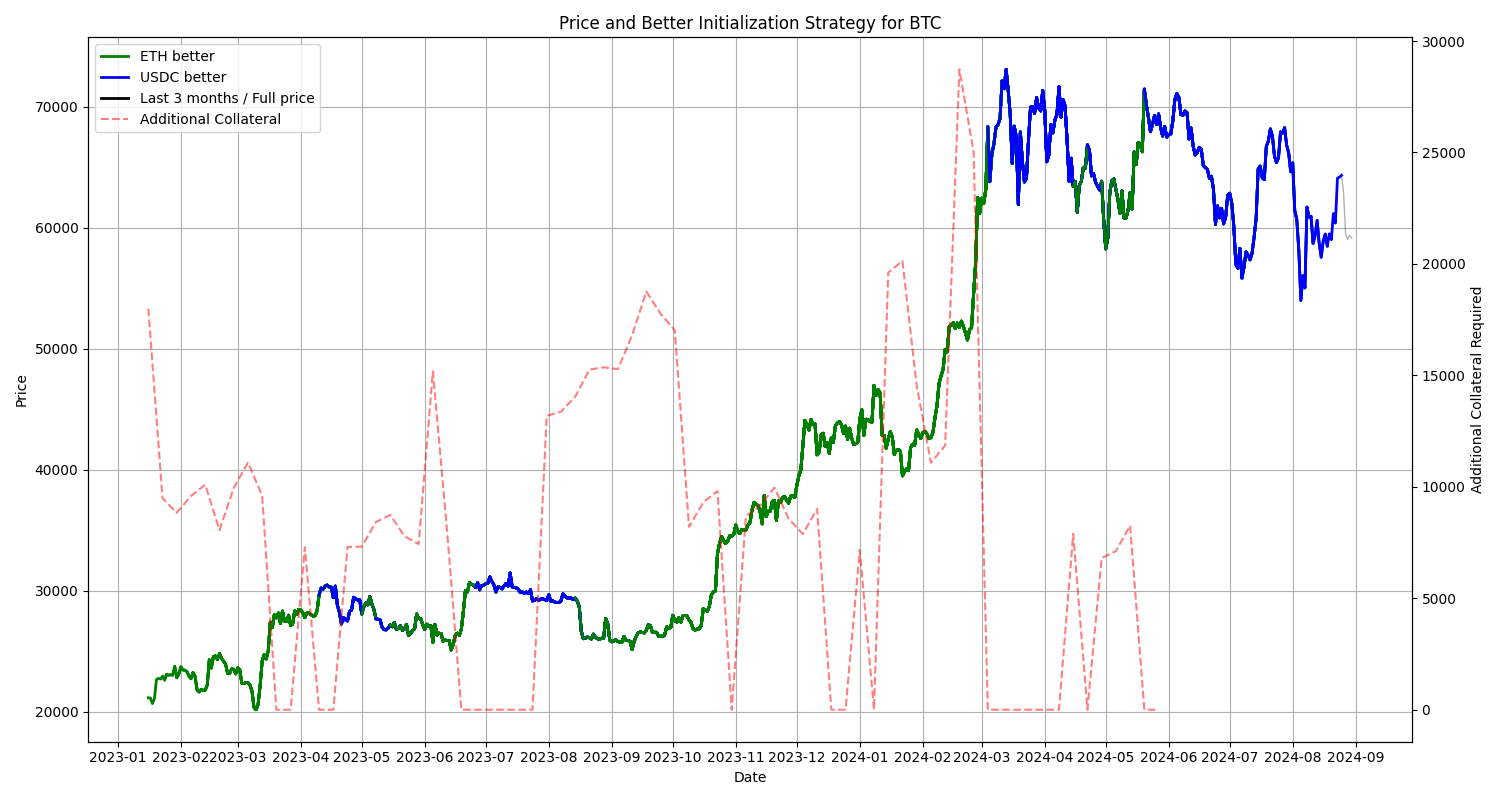
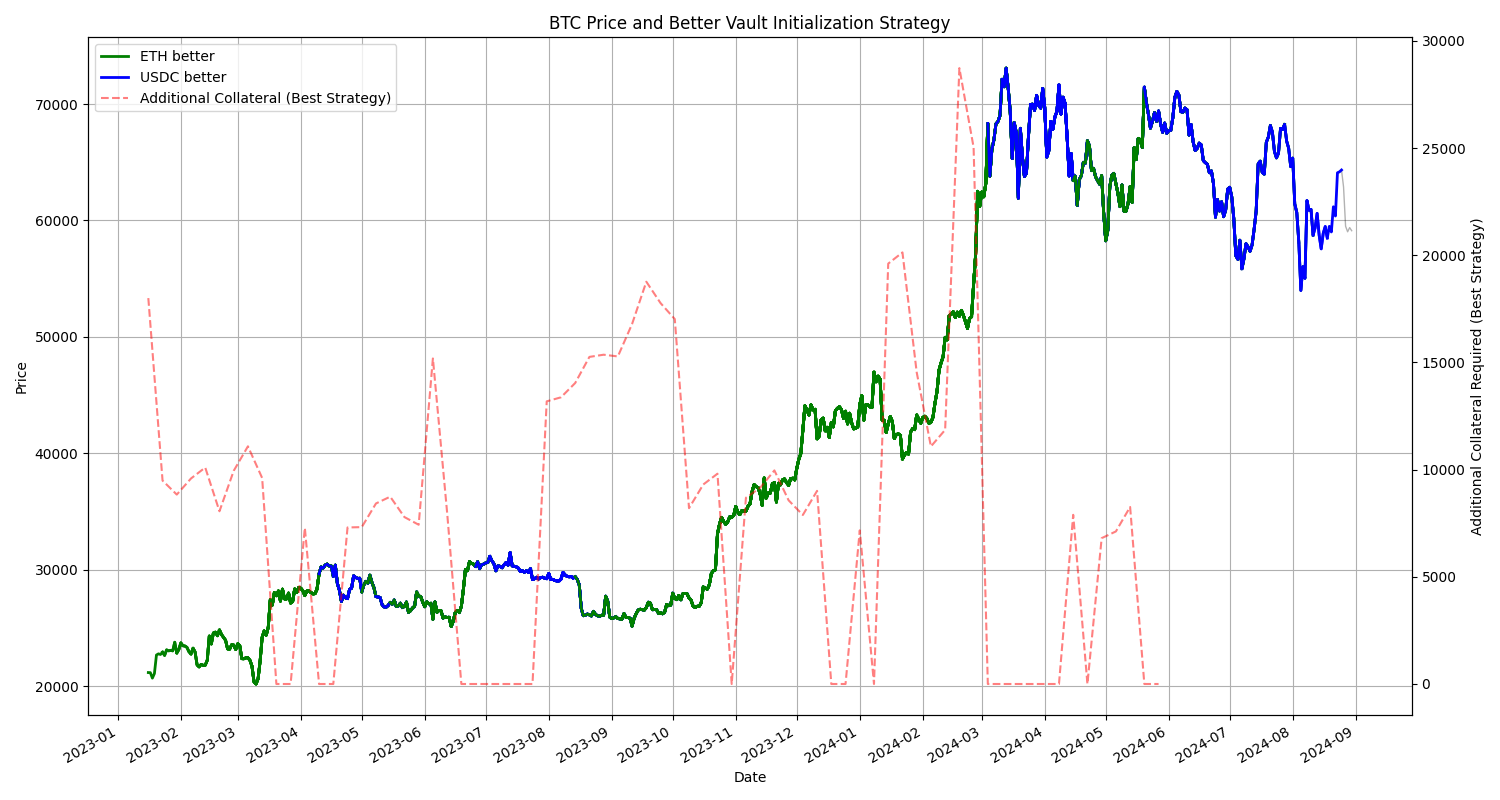
Fixed view scaling and legend

diff --git a/Vault Initiation Timing/vault_initiation_timing.py b/Vault Initiation Timing/vault_initiation_timing.py
@@ -5,6 +5,7 @@ import matplotlib.dates as mdates
 from main import fetch_historical_data, calculate_collateral_ratio, MINIMAL_CR, SAFETY_CR, TOP_UP_CR
 from matplotlib.lines import Line2D
 
+
 def backtest_strategy(vault_collateral, asset, start_date, end_date, initial_cr=1.5,
                       initial_vault_collateral=100000, initial_pool_collateral=100000):
     """Backtest the strategy for given collaterals and asset using actual FLR price."""
@@ -149,7 +150,14 @@ def extended_plot(results_over_time, assets, vault_collaterals, end_date):
                     if date <= end_date - timedelta(days=90):
                         eth_additional = eth_result['total_additional_vault_collateral']
                         usdc_additional = usdc_result['total_additional_vault_collateral']
-                        color = 'green' if eth_additional < usdc_additional else 'blue'
+
+                        # Update color selection logic
+                        if eth_additional == 0 and usdc_additional == 0:
+                            color = 'green' if eth_result['vault_cr_series'][-1] > usdc_result['vault_cr_series'][
+                                -1] else 'blue'
+                        else:
+                            color = 'green' if eth_additional < usdc_additional else 'blue'
+
                         additional_collateral = min(eth_additional, usdc_additional)
                     else:
                         color = 'black'
@@ -165,19 +173,20 @@ def extended_plot(results_over_time, assets, vault_collaterals, end_date):
         ax1.set_title(f"{clean_asset_name} Price and Better Vault Initialization Strategy")
         ax1.set_xlabel("Date")
         ax1.set_ylabel("Price")
-        ax2.set_ylabel("Additional Collateral Required")
+        ax2.set_ylabel("Additional Collateral Required (Best Strategy)")
         ax1.xaxis.set_major_formatter(mdates.DateFormatter('%Y-%m'))
-        ax1.xaxis.set_major_locator(mdates.MonthLocator())
+        ax1.xaxis.set_major_locator(mdates.MonthLocator())  # Show every month
         ax1.grid(True)
+
+        # Rotate and align the tick labels so they look better
+        fig.autofmt_xdate()
 
         # Create a custom legend
         custom_lines = [Line2D([0], [0], color='green', lw=2),
                         Line2D([0], [0], color='blue', lw=2),
-                        Line2D([0], [0], color='black', lw=2),
                         Line2D([0], [0], color='red', linestyle='--', alpha=0.5)]
-        ax1.legend(custom_lines, ['ETH better', 'USDC better', 'Last 3 months / Full price', 'Additional Collateral'])
+        ax1.legend(custom_lines, ['ETH better', 'USDC better', 'Additional Collateral (Best Strategy)'])
 
-        plt.xticks(rotation=45, ha='right')
         plt.tight_layout()
         plt.savefig(f'price_strategy_{clean_asset_name}.png')
         plt.close()
@@ -198,16 +207,25 @@ def output_summary(results_over_time, assets, vault_collaterals, output_file='su
                 usdc_result = results[usdc_key]
 
                 if eth_result is not None and usdc_result is not None:
-                    better_strategy = 'ETH' if eth_result['total_additional_vault_collateral'] < usdc_result[
-                        'total_additional_vault_collateral'] else 'USDC'
+                    eth_additional = eth_result['total_additional_vault_collateral']
+                    usdc_additional = usdc_result['total_additional_vault_collateral']
+                    eth_final_cr = eth_result['vault_cr_series'][-1]
+                    usdc_final_cr = usdc_result['vault_cr_series'][-1]
+
+                    # Determine better strategy
+                    if eth_additional == 0 and usdc_additional == 0:
+                        better_strategy = 'ETH' if eth_final_cr > usdc_final_cr else 'USDC'
+                    else:
+                        better_strategy = 'ETH' if eth_additional < usdc_additional else 'USDC'
+
                     summary_data.append({
                         'Date': date,
                         'Asset': clean_asset_name,
                         'Better Strategy': better_strategy,
-                        'ETH Final Price': eth_result['vault_cr_series'][-1],
-                        'USDC Final Price': usdc_result['vault_cr_series'][-1],
-                        'ETH Additional Collateral': eth_result['total_additional_vault_collateral'],
-                        'USDC Additional Collateral': usdc_result['total_additional_vault_collateral']
+                        'ETH Final CR': eth_final_cr,
+                        'USDC Final CR': usdc_final_cr,
+                        'ETH Additional Collateral': eth_additional,
+                        'USDC Additional Collateral': usdc_additional
                     })
 
     df = pd.DataFrame(summary_data)
